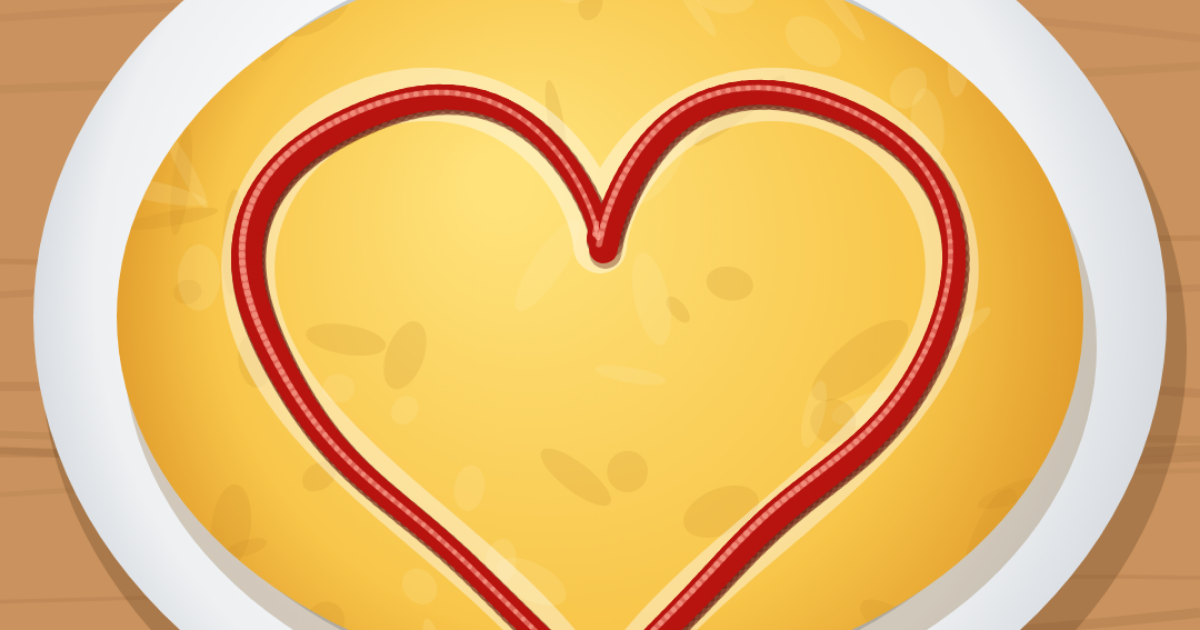
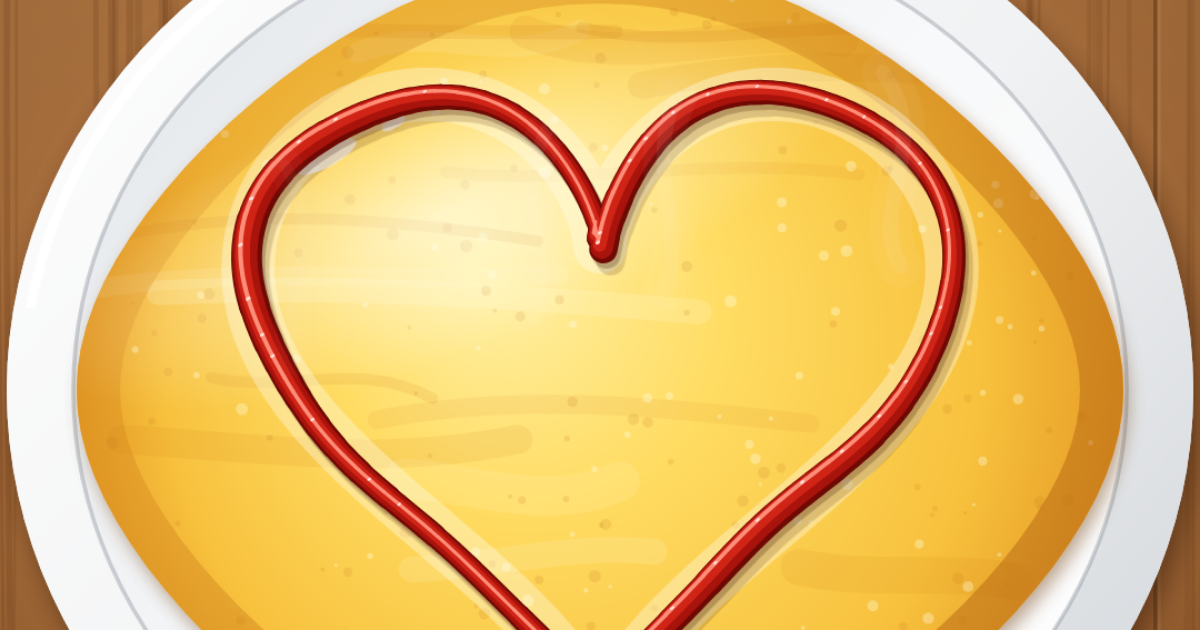
ketchup: 見た目と演出を作り込み（つやのあるケチャップ・卵・お皿・湯気・点数のカウントアップ）
Claude-Session: https://claude.ai/code/session_01E5BBq7waBxSg39EVTyVM3T

diff --git a/ketchup/index.html b/ketchup/index.html
@@ -25,15 +25,17 @@
 *,*::before,*::after{box-sizing:border-box}
 html,body{margin:0;height:100%;background:#2b2a27}
 body{font-family:var(--body);color:var(--ink);overflow:hidden;-webkit-tap-highlight-color:transparent;-webkit-user-select:none;user-select:none;overscroll-behavior:none;-webkit-touch-callout:none}
-#app{position:relative;width:100%;max-width:480px;height:100vh;height:100dvh;margin:0 auto;overflow:hidden;background:#c9925e;touch-action:none}
+#app{position:relative;width:100%;max-width:480px;height:100vh;height:100dvh;margin:0 auto;overflow:hidden;background:#b47640;touch-action:none}
 #cv{position:absolute;inset:0;width:100%;height:100%;display:block;touch-action:none}
 #app.shake{animation:shake .45s}
 @keyframes shake{15%{transform:translate(-9px,3px)}30%{transform:translate(8px,-3px)}45%{transform:translate(-6px,2px)}60%{transform:translate(4px,-1px)}75%{transform:translate(-2px,0)}}
 
 .panel{position:absolute;inset:0;z-index:30;display:flex;flex-direction:column;align-items:center;justify-content:center;padding:24px max(20px,env(safe-area-inset-right,0px)) 24px max(20px,env(safe-area-inset-left,0px));text-align:center}
 .panel[hidden]{display:none}
-#title{background:linear-gradient(#fff4d6,#f7d9a0)}
-#title h1{font-family:var(--display);font-weight:400;font-size:clamp(24px,7.6vw,38px);line-height:1.45;margin:0 0 30px;text-wrap:balance}
+#title{background:linear-gradient(rgba(40,14,0,.05),rgba(40,14,0,.35))}
+#title .tcard{background:rgba(255,250,238,.93);border-radius:24px;padding:26px 18px 16px;width:min(100%,340px);box-shadow:0 14px 40px rgba(40,14,0,.35),0 0 0 1px rgba(255,255,255,.6) inset}
+#title .tcard .btn{width:100%}
+#title h1{font-family:var(--display);font-weight:400;font-size:clamp(24px,7.4vw,34px);line-height:1.42;margin:0 0 18px;color:#3a1608;text-wrap:balance}
 .btn{border:0;border-radius:14px;background:var(--red);color:#fff;font:900 18px var(--body);padding:15px 0;width:min(100%,300px);box-shadow:0 5px 0 var(--red-d);cursor:pointer}
 .btn:active{transform:translateY(3px);box-shadow:0 2px 0 var(--red-d)}
 .btn.ghost{background:#fff;color:var(--ink);box-shadow:0 5px 0 #c9ccd2}
@@ -71,12 +73,12 @@ body{font-family:var(--body);color:var(--ink);overflow:hidden;-webkit-tap-highli
 <div id="app">
   <canvas id="cv" aria-label="木のテーブルの上のお皿とオムライスを真上から見た画面。ハートの点線とうすい帯がある"></canvas>
 
-  <div id="title" class="panel">
+  <div id="title" class="panel"><div class="tcard">
     <h1>オムライスの<br>ケチャップを、<br>はみ出さずに<br>ハートに描け。</h1>
     <p style="margin:0 0 14px;font-size:13px;line-height:1.6">指で1筆、ハートの点線をなぞる。<br>ゆっくりだと太く、速いと細く出る。<br><b>うすい帯からはみ出さずに、<br>点線を全部ケチャップでかくせば100%</b>。</p>
     <button class="btn" id="startBtn" type="button">はじめる</button>
     <p class="fine">登場するものはすべて架空です。音が出ます。<br><a class="me" href="https://x.com/ordwxjhj" target="_blank" rel="noopener">作った人 @ordwxjhj</a></p>
-  </div>
+  </div></div>
 
   <div id="result" class="panel" hidden>
     <div class="sheet">
@@ -184,7 +186,8 @@ const SFX={
   squeezeOff(){if(!SQ||!AC)return;const t=AC.currentTime;SQ.g.gain.setTargetAtTime(.0001,t,.04);const s=SQ.s;setTimeout(()=>{try{s.stop();}catch(e){}},300);SQ=null;},
   pfft(){noise(.12,.12,600,0,'lowpass');},
   happy(){tone(880,.1,'sine',.05,0,1320);tone(1320,.12,'sine',.05,.12,1760);tone(1760,.2,'sine',.04,.26,2200);},
-  sad(){tone(330,.3,'triangle',.05,0,220);}
+  sad(){tone(330,.3,'triangle',.05,0,220);},
+  ok(){tone(660,.09,'sine',.045,0,880);tone(990,.14,'sine',.04,.1,1100);}
 };
 function syncMute(){$('mute').textContent=muted?'音 OFF':'音 ON';$('mute').setAttribute('aria-pressed',String(muted));}
 syncMute();
@@ -193,12 +196,12 @@ $('mute').addEventListener('pointerdown',e=>e.stopPropagation());
 
 /* ---------- canvas ---------- */
 const cv=$('cv'),cx=cv.getContext('2d');
-let W=360,H=640,SC=1,DPR=1,BG=null,BGkey='';
+let W=360,H=640,SC=1,DPR=1,BG=null,BGkey='',Kn=-1;
 function resize(){
   const r=$('app').getBoundingClientRect();DPR=Math.min(3,window.devicePixelRatio||1);
-  SC=r.width/360;W=360;H=r.height/SC;cv.width=Math.round(r.width*DPR);cv.height=Math.round(r.height*DPR);HG=null;
+  SC=r.width/360;W=360;H=r.height/SC;cv.width=Math.round(r.width*DPR);cv.height=Math.round(r.height*DPR);HG=null;Kn=-1;
 }
-addEventListener('resize',resize);try{visualViewport.addEventListener('resize',resize);}catch(e){}
+addEventListener('resize',()=>{resize();});try{visualViewport.addEventListener('resize',()=>{resize();});}catch(e){}
 function rr(x,X,Y,w,h,r){x.beginPath();x.moveTo(X+r,Y);x.arcTo(X+w,Y,X+w,Y+h,r);x.arcTo(X+w,Y+h,X,Y+h,r);x.arcTo(X,Y+h,X,Y,r);x.arcTo(X,Y,X+w,Y,r);x.closePath();}
 function clamp(v,a,b){return Math.max(a,Math.min(b,v));}
 function rnd(i){const s=Math.sin(i*127.1+311.7)*43758.5453;return s-Math.floor(s);}
@@ -214,7 +217,7 @@ let G=null,ROUND=0,PREV=null,PID=null;
 function newGame(){ROUND++;G={phase:'ready',t0:performance.now(),st:{pts:[]},res:null,shown:false,plan:undefined,snap:null,snapped:false,round:ROUND,drips:[]};}
 function tsOf(e){const n=performance.now();const t=e&&e.timeStamp;return (t&&Math.abs(n-t)<1000)?t:n;}
 function ptOf(e){const r=cv.getBoundingClientRect();return {x:(e.clientX-r.left)/SC,y:(e.clientY-r.top)/SC};}
-function down(x,y,t){if(!G||G.phase!=='ready')return;ac();G.phase='draw';G.td=t;addPt(G.st,x,y,t);SFX.squeezeOn();SFX.pfft();}
+function down(x,y,t){if(!G||G.phase!=='ready')return;ac();try{if(!G.plan&&navigator.vibrate)navigator.vibrate(12);}catch(e){}G.phase='draw';G.td=t;addPt(G.st,x,y,t);SFX.squeezeOn();SFX.pfft();}
 function move(x,y,t){if(!G||G.phase!=='draw')return;const p=G.st.pts;if(t<=p[p.length-1].t)return;addPt(G.st,x,y,t);SFX.squeezeSet(p[p.length-1].w);}
 function up(t){if(!G||G.phase!=='draw')return;SFX.squeezeOff();G.phase='done';G.tu=t;
   const r=judge(G.st.pts,heart());r.devS=devOf(r.dev);G.res=r;}
@@ -238,77 +241,152 @@ function step(now){
     if(now-G.td>15000)up(now);
   }
   if(G.phase==='done'){const a=(now-G.tu)/1000;
-    if(!G.played&&a>=.25){G.played=true;if(G.res.devS<1)SFX.happy();else if(G.res.devS>40)SFX.sad();}
+    if(!G.played&&a>=.25){G.played=true;SFX.pfft();}
+    if(!G.played2&&a>=1.3){G.played2=true;if(G.res.devS<1)SFX.happy();else if(G.res.devS>40)SFX.sad();else SFX.ok();}
     if(!G.snapped&&a>=.5){G.snapped=true;takeSnap();}
-    if(a>=1.4&&!G.shown){G.shown=true;showResult();}}
+    if(a>=2.3&&!G.shown){G.shown=true;showResult();}}
 }
 
 /* ---------- drawing ---------- */
+const OY=22;      /* the omelette and the plate sit a little lower than cy, so the heart's tip stays on the egg */
+const EA=157,EB=129,PA=178,PB=161;
+function eggPath(x,ox,oy,a,b){x.beginPath();for(let i=0;i<=96;i++){const t=i/96*Math.PI*2,c=Math.cos(t),s=Math.sin(t);const X=ox+a*c,Y=oy+b*s*(1-.24*c*c);i?x.lineTo(X,Y):x.moveTo(X,Y);}x.closePath();}
 function bg(){
   const key=W+'x'+H+'@'+DPR*SC;if(BG&&BGkey===key)return BG;
   const c=document.createElement('canvas');c.width=Math.round(W*SC*DPR);c.height=Math.round(H*SC*DPR);const x=c.getContext('2d');x.scale(SC*DPR,SC*DPR);
-  const l=L();
-  /* wooden table */
-  x.fillStyle='#c9925e';x.fillRect(0,0,W,H);
-  for(let i=0;i<40;i++){x.strokeStyle=`rgba(120,70,30,${.06+rnd(i)*.08})`;x.lineWidth=1+rnd(i+3)*2;x.beginPath();const y=rnd(i+5)*H;x.moveTo(0,y);x.bezierCurveTo(120,y+rnd(i+7)*20-10,240,y+rnd(i+9)*20-10,W,y+rnd(i+11)*16-8);x.stroke();}
-  /* plate */
-  x.fillStyle='rgba(60,30,10,.22)';x.beginPath();x.ellipse(l.cx+4,l.cy+10,172,142,0,0,7);x.fill();
-  let g=x.createRadialGradient(l.cx-40,l.cy-50,20,l.cx,l.cy,175);g.addColorStop(0,'#ffffff');g.addColorStop(.8,'#eef0f2');g.addColorStop(1,'#d4d8dd');
-  x.fillStyle=g;x.beginPath();x.ellipse(l.cx,l.cy,170,140,0,0,7);x.fill();
-  x.strokeStyle='rgba(150,160,170,.5)';x.lineWidth=1.5;x.beginPath();x.ellipse(l.cx,l.cy,140,112,0,0,7);x.stroke();
-  /* omelette */
-  x.fillStyle='rgba(120,80,20,.25)';x.beginPath();x.ellipse(l.cx+3,l.cy+9,146,112,0,0,7);x.fill();
-  g=x.createRadialGradient(l.cx-30,l.cy-40,10,l.cx,l.cy,150);g.addColorStop(0,'#ffe27a');g.addColorStop(.7,'#f8c64a');g.addColorStop(1,'#e09a2a');
-  x.fillStyle=g;x.beginPath();x.ellipse(l.cx,l.cy,145,110,0,0,7);x.fill();
-  x.save();x.clip();for(let i=0;i<60;i++){x.fillStyle=`rgba(${rnd(i)<.5?255:200},${rnd(i)<.5?240:140},${rnd(i)<.5?180:40},.18)`;x.beginPath();x.ellipse(l.cx+(rnd(i+1)-.5)*280,l.cy+(rnd(i+2)-.5)*210,4+rnd(i+3)*14,2+rnd(i+4)*5,rnd(i+5)*3,0,7);x.fill();}x.restore();
+  const l=L(),ox=l.cx,oy=l.cy+OY;
+  /* warm wooden table, lit from the upper left */
+  let g=x.createLinearGradient(0,0,W*.4,H);g.addColorStop(0,'#c98d55');g.addColorStop(.5,'#b47640');g.addColorStop(1,'#93582c');x.fillStyle=g;x.fillRect(0,0,W,H);
+  const pw=72;for(let k=0;k*pw<W+pw;k++){const x0=k*pw-14;x.fillStyle=`rgba(${rnd(k)<.5?255:70},${rnd(k)<.5?220:30},${rnd(k)<.5?170:0},${.03+rnd(k+2)*.05})`;x.fillRect(x0,0,pw,H);
+    x.fillStyle='rgba(60,28,8,.35)';x.fillRect(x0,0,1.2,H);x.fillStyle='rgba(255,220,170,.12)';x.fillRect(x0+1.2,0,1,H);
+    for(let i=0;i<14;i++){const s=k*31+i;x.strokeStyle=`rgba(90,45,15,${.07+rnd(s)*.12})`;x.lineWidth=.6+rnd(s+3)*1.6;x.beginPath();const xx=x0+6+rnd(s+5)*(pw-12);x.moveTo(xx,0);
+      x.bezierCurveTo(xx+rnd(s+7)*10-5,H*.33,xx+rnd(s+9)*10-5,H*.66,xx+rnd(s+11)*8-4,H);x.stroke();}
+    if(rnd(k+40)<.6){const kx=x0+10+rnd(k+41)*(pw-20),ky=rnd(k+42)*H;x.strokeStyle='rgba(80,38,10,.22)';x.lineWidth=1;for(let r=2;r<12;r+=2.5){x.beginPath();x.ellipse(kx,ky,r*.45,r*1.6,0,0,7);x.stroke();}}}
+  /* linen napkin and a spoon below the plate, when there is room */
+  if(H-(oy+PB)>70){const ny=oy+PB+16;x.save();x.translate(W-60,ny+50);x.rotate(-.08);
+    x.fillStyle='rgba(40,20,5,.25)';rr(x,-118+4,-40+6,240,140,10);x.fill();
+    g=x.createLinearGradient(-118,-40,120,100);g.addColorStop(0,'#f7f1e6');g.addColorStop(1,'#e3d8c4');x.fillStyle=g;rr(x,-118,-40,240,140,10);x.fill();
+    x.strokeStyle='rgba(170,140,100,.35)';x.lineWidth=1;x.setLineDash([3,3]);rr(x,-110,-32,224,124,6);x.stroke();x.setLineDash([]);
+    x.fillStyle='rgba(30,20,10,.25)';x.beginPath();x.ellipse(-40+3,22+5,16,11,0,0,7);x.fill();x.fillRect(-28+2,18+4,130,6);
+    g=x.createLinearGradient(0,10,0,34);g.addColorStop(0,'#fbfcfd');g.addColorStop(.5,'#b9c0c8');g.addColorStop(1,'#eef1f4');
+    x.fillStyle=g;x.beginPath();x.ellipse(-40,22,16,11,0,0,7);x.fill();rr(x,-28,18,130,6,3);x.fill();
+    x.fillStyle='rgba(255,255,255,.8)';x.beginPath();x.ellipse(-45,18,6,3,-.3,0,7);x.fill();x.restore();}
+  /* vignette */
+  g=x.createRadialGradient(ox,oy,120,ox,oy,Math.max(W,H)*.8);g.addColorStop(0,'rgba(0,0,0,0)');g.addColorStop(1,'rgba(30,12,0,.42)');x.fillStyle=g;x.fillRect(0,0,W,H);
+  /* the plate: soft shadow, rim, well */
+  x.save();x.shadowColor='rgba(40,18,4,.45)';x.shadowBlur=22;x.shadowOffsetX=6;x.shadowOffsetY=12;x.fillStyle='#e9ecef';x.beginPath();x.ellipse(ox,oy,PA,PB,0,0,7);x.fill();x.restore();
+  g=x.createLinearGradient(ox-PA,oy-PB,ox+PA,oy+PB);g.addColorStop(0,'#ffffff');g.addColorStop(.55,'#f1f2f3');g.addColorStop(1,'#cfd3d8');x.fillStyle=g;x.beginPath();x.ellipse(ox,oy,PA,PB,0,0,7);x.fill();
+  g=x.createLinearGradient(ox-PA,oy-PB,ox+PA,oy+PB);g.addColorStop(0,'#dfe3e7');g.addColorStop(.5,'#f8f9fa');g.addColorStop(1,'#ffffff');x.fillStyle=g;x.beginPath();x.ellipse(ox,oy,PA-20,PB-19,0,0,7);x.fill();
+  x.strokeStyle='rgba(120,130,140,.35)';x.lineWidth=1.2;x.beginPath();x.ellipse(ox,oy,PA-20,PB-19,0,0,7);x.stroke();
+  x.strokeStyle='rgba(255,255,255,.9)';x.lineWidth=3;x.beginPath();x.ellipse(ox,oy,PA-5,PB-5,0,Math.PI*1.05,Math.PI*1.55);x.stroke();
+  /* a sprig of parsley on the rim */
+  const px0=ox-PA+52,py0=oy+PB-50;for(let i=0;i<9;i++){const an=i/9*7,rr0=4+rnd(i+80)*5;x.fillStyle=i%2?'#3f8a2e':'#5aa83c';x.beginPath();x.ellipse(px0+Math.cos(an)*rr0,py0+Math.sin(an)*rr0*.8,6,4.5,an,0,7);x.fill();}
+  x.strokeStyle='#4a8a2a';x.lineWidth=1.4;x.beginPath();x.moveTo(px0+3,py0+3);x.quadraticCurveTo(px0+12,py0+14,px0+22,py0+16);x.stroke();
+  x.fillStyle='rgba(255,255,255,.35)';x.beginPath();x.ellipse(px0-3,py0-4,3,1.6,-.5,0,7);x.fill();
+  /* the omelette: shadow, body, folds, browned edge, gloss */
+  x.save();x.shadowColor='rgba(110,60,10,.45)';x.shadowBlur=16;x.shadowOffsetX=4;x.shadowOffsetY=8;x.fillStyle='#e6a531';eggPath(x,ox,oy,EA,EB);x.fill();x.restore();
+  g=x.createRadialGradient(ox-34,oy-38,8,ox,oy,EA*1.02);g.addColorStop(0,'#fff0a3');g.addColorStop(.35,'#ffdc62');g.addColorStop(.75,'#f8c23e');g.addColorStop(1,'#e59a24');
+  x.fillStyle=g;eggPath(x,ox,oy,EA,EB);x.fill();
+  x.save();eggPath(x,ox,oy,EA,EB);x.clip();
+  /* folds of the thin egg, running along its length */
+  for(let i=0;i<16;i++){const yy=oy+(rnd(i+20)-.5)*EB*1.8,len=60+rnd(i+21)*120,xx=ox+(rnd(i+22)-.5)*EA*1.2,d=rnd(i+23)<.5;
+    x.strokeStyle=d?`rgba(205,120,20,${.08+rnd(i+24)*.08})`:`rgba(255,250,210,${.14+rnd(i+24)*.12})`;x.lineWidth=3+rnd(i+25)*9;x.lineCap='round';
+    x.beginPath();x.moveTo(xx-len/2,yy+rnd(i+26)*10-5);x.bezierCurveTo(xx-len/6,yy-8+rnd(i+27)*16,xx+len/6,yy-8+rnd(i+28)*16,xx+len/2,yy+rnd(i+29)*10-5);x.stroke();}
+  /* tiny bubbles and specks */
+  for(let i=0;i<220;i++){const a=rnd(i+300)*7,r=Math.sqrt(rnd(i+301));const X=ox+Math.cos(a)*r*EA*.95,Y=oy+Math.sin(a)*r*EB*.95;
+    x.fillStyle=rnd(i+302)<.5?'rgba(255,255,225,.35)':'rgba(200,120,30,.16)';x.beginPath();x.arc(X,Y,.5+rnd(i+303)*1.4,0,7);x.fill();}
+  /* browned edge */
+  x.lineWidth=26;g=x.createLinearGradient(ox-EA,oy-EB,ox+EA,oy+EB);g.addColorStop(0,'rgba(220,140,30,.25)');g.addColorStop(1,'rgba(170,90,15,.55)');x.strokeStyle=g;eggPath(x,ox,oy,EA,EB);x.stroke();
+  /* soft gloss from the light */
+  x.save();x.translate(ox-48,oy-52);x.rotate(-.35);g=x.createRadialGradient(0,0,0,0,0,70);g.addColorStop(0,'rgba(255,255,245,.55)');g.addColorStop(1,'rgba(255,255,245,0)');x.fillStyle=g;x.scale(1.8,.6);x.beginPath();x.arc(0,0,70,0,7);x.fill();x.restore();
+  x.fillStyle='rgba(255,255,255,.75)';x.beginPath();x.ellipse(ox-82,oy-70,10,3,-.5,0,7);x.fill();x.beginPath();x.ellipse(ox-62,oy-80,4,1.6,-.5,0,7);x.fill();
+  x.restore();
   /* the pale heart band and the dotted line */
   const hp=heart().pts;
-  x.strokeStyle='rgba(255,255,255,.42)';x.lineWidth=BAND*2;x.lineJoin='round';x.lineCap='round';x.beginPath();hp.forEach((p,i)=>i?x.lineTo(p.x,p.y):x.moveTo(p.x,p.y));x.closePath();x.stroke();
-  x.fillStyle='rgba(150,40,20,.55)';hp.forEach((p,i)=>{if(i%4===0){x.beginPath();x.arc(p.x,p.y,1.3,0,7);x.fill();}});
+  x.strokeStyle='rgba(255,255,240,.36)';x.lineWidth=BAND*2;x.lineJoin='round';x.lineCap='round';x.beginPath();hp.forEach((p,i)=>i?x.lineTo(p.x,p.y):x.moveTo(p.x,p.y));x.closePath();x.stroke();
+  x.fillStyle='rgba(150,40,20,.6)';hp.forEach((p,i)=>{if(i%4===0){x.beginPath();x.arc(p.x,p.y,1.3,0,7);x.fill();}});
   BG=c;BGkey=key;return c;
 }
-function ketchup(x,pts,upto){
-  const n=upto===undefined?pts.length:upto;
-  x.lineCap='round';x.lineJoin='round';
-  for(let pass=0;pass<3;pass++){
-    for(let j=1;j<n;j++){const a=pts[j-1],b=pts[j];const w=Math.min(a.w,b.w)?(a.w+b.w)/2:0;if(!w)continue;
-      if(pass===0){x.strokeStyle='rgba(90,10,5,.35)';x.lineWidth=w+1.2;x.beginPath();x.moveTo(a.x+.6,a.y+1);x.lineTo(b.x+.6,b.y+1);x.stroke();}
-      else if(pass===1){x.strokeStyle='#b8140f';x.lineWidth=w;x.beginPath();x.moveTo(a.x,a.y);x.lineTo(b.x,b.y);x.stroke();}
-      else{x.strokeStyle='rgba(255,170,150,.55)';x.lineWidth=Math.max(.8,w*.22);x.beginPath();x.moveTo(a.x-w*.15,a.y-w*.18);x.lineTo(b.x-w*.15,b.y-w*.18);x.stroke();}}
-  }
-  if(n===1&&pts[0].w){x.fillStyle='#b8140f';x.beginPath();x.arc(pts[0].x,pts[0].y,pts[0].w/2,0,7);x.fill();}
+/* ketchup as a glossy tube: the whole stroke is redrawn pass by pass (edge, body, core, shine) so the shine never breaks at joints */
+let KC=null,KS=null,Kref=null;
+function kLayers(){const w=cv.width,h=cv.height;if(!KC||KC.width!==w||KC.height!==h){KC=document.createElement('canvas');KS=document.createElement('canvas');KC.width=KS.width=w;KC.height=KS.height=h;Kn=-1;}}
+function ketchupLayer(pts){
+  kLayers();if(pts===Kref&&pts.length===Kn)return;Kref=pts;Kn=pts.length;
+  const x=KC.getContext('2d');x.setTransform(1,0,0,1,0,0);x.clearRect(0,0,KC.width,KC.height);x.setTransform(DPR*SC,0,0,DPR*SC,0,0);x.lineCap='round';x.lineJoin='round';
+  const B=new Map();for(let j=1;j<pts.length;j++){const a=pts[j-1],b=pts[j];const w=Math.min(a.w,b.w)?(a.w+b.w)/2:0;if(!w)continue;const q=Math.round(w*4)/4;let l=B.get(q);if(!l)B.set(q,l=[]);l.push(a,b);}
+  const P=[['#6e0904',1,0,0],['#a8130c',.8,-.05,-.06],['#cf2416',.48,-.13,-.15],['#ff8e78',.15,-.2,-.24]];
+  for(const [col,k,dx,dy] of P){x.strokeStyle=col;for(const [w,l] of B){x.lineWidth=Math.max(.6,w*k);const ox=w*dx,oy=w*dy;x.beginPath();for(let i=0;i<l.length;i+=2){x.moveTo(l[i].x+ox,l[i].y+oy);x.lineTo(l[i+1].x+ox,l[i+1].y+oy);}x.stroke();}}
+  /* a few bright glints along the thick parts */
+  x.fillStyle='rgba(255,240,235,.85)';for(const [w,l] of B){if(w<7)continue;for(let i=0;i<l.length;i+=14){const p=l[i];x.beginPath();x.ellipse(p.x-w*.2,p.y-w*.24,w*.09,w*.05,-.6,0,7);x.fill();}}
+  if(pts.length===1&&pts[0].w){const p=pts[0],w=p.w;[['#6e0904',.5,0],['#a8130c',.4,-.05],['#cf2416',.24,-.14],['#ff8e78',.08,-.22]].forEach(([c,r,d])=>{x.fillStyle=c;x.beginPath();x.arc(p.x+w*d,p.y+w*d,w*r,0,7);x.fill();});}
+  const s=KS.getContext('2d');s.globalCompositeOperation='source-over';s.clearRect(0,0,KS.width,KS.height);s.drawImage(KC,0,0);s.globalCompositeOperation='source-in';s.fillStyle='#3a1003';s.fillRect(0,0,KS.width,KS.height);s.globalCompositeOperation='source-over';
 }
-function bottle(x,p,tilt){
-  x.save();x.translate(p.x,p.y);x.rotate(tilt);
-  x.fillStyle='#f4f4f2';x.beginPath();x.moveTo(-3,-2);x.lineTo(3,-2);x.lineTo(5,-16);x.lineTo(-5,-16);x.closePath();x.fill();
-  let g=x.createLinearGradient(-22,0,22,0);g.addColorStop(0,'#9e0f0b');g.addColorStop(.35,'#e0281f');g.addColorStop(.6,'#c41a14');g.addColorStop(1,'#7e0a07');
-  x.fillStyle=g;rr(x,-20,-90,40,74,14);x.fill();
-  x.fillStyle='#f4f4f2';rr(x,-12,-22,24,8,3);x.fill();
-  x.fillStyle='rgba(255,255,255,.35)';rr(x,-14,-84,6,56,3);x.fill();
-  x.fillStyle='#fff8e8';rr(x,-14,-66,28,22,4);x.fill();x.fillStyle='#c41a14';x.font='900 9px '+BODYF();x.textAlign='center';x.textBaseline='middle';x.fillText('トマト',0,-55);
+function ketchup(x,pts){
+  if(!pts||!pts.length)return;ketchupLayer(pts);
+  x.save();x.globalAlpha=.16;x.drawImage(KS,2.2,3.6,W,H);x.globalAlpha=.24;x.drawImage(KS,.9,1.6,W,H);x.restore();
+  x.drawImage(KC,0,0,W,H);
+}
+function bottle(x,p,tilt,sq){
+  x.save();x.translate(p.x,p.y);
+  /* its shadow on the omelette */
+  x.save();x.shadowColor='rgba(90,40,0,.28)';x.shadowBlur=12*SC*DPR;x.shadowOffsetX=1000*SC*DPR;x.shadowOffsetY=0;x.translate(16-1000,20);x.rotate(tilt);x.fillStyle='#000';rr(x,-20,-100,40,80,16);x.fill();x.restore();
+  x.rotate(tilt);x.scale(1+sq*.07,1-sq*.03);
+  x.fillStyle='#e9e7e2';x.beginPath();x.moveTo(-2.5,-1);x.lineTo(2.5,-1);x.lineTo(5,-15);x.lineTo(-5,-15);x.closePath();x.fill();
+  x.fillStyle='#b8140f';x.beginPath();x.arc(0,-1,2.2,0,7);x.fill();
+  let g=x.createLinearGradient(-14,0,14,0);g.addColorStop(0,'#cfccc6');g.addColorStop(.4,'#ffffff');g.addColorStop(1,'#bdb9b2');x.fillStyle=g;rr(x,-14,-26,28,12,4);x.fill();
+  g=x.createLinearGradient(-22,0,22,0);g.addColorStop(0,'#7a0905');g.addColorStop(.28,'#e3311f');g.addColorStop(.42,'#f2533e');g.addColorStop(.65,'#c21a12');g.addColorStop(1,'#6a0703');
+  x.fillStyle=g;x.beginPath();x.moveTo(-14,-24);x.bezierCurveTo(-24,-30,-22,-40,-22,-50);x.lineTo(-22,-92);x.quadraticCurveTo(-22,-104,-10,-104);x.lineTo(10,-104);x.quadraticCurveTo(22,-104,22,-92);x.lineTo(22,-50);x.bezierCurveTo(22,-40,24,-30,14,-24);x.closePath();x.fill();
+  x.fillStyle='rgba(255,255,255,.45)';rr(x,-15,-98,5,66,2.5);x.fill();x.fillStyle='rgba(255,255,255,.25)';rr(x,10,-94,3,50,1.5);x.fill();
+  x.fillStyle='#fff6e2';rr(x,-16,-80,32,26,5);x.fill();x.fillStyle='#3f8a2e';x.beginPath();x.ellipse(0,-74,5,2.6,0,0,7);x.fill();
+  x.fillStyle='#c41a14';x.font='900 8.5px '+BODYF();x.textAlign='center';x.textBaseline='middle';x.fillText('トマト',0,-63);
   x.restore();
 }
+/* steam rising from the hot omelette */
+function steam(x,now){const l=L(),ox=l.cx,oy=l.cy+OY;x.save();x.lineCap='round';
+  for(let i=0;i<4;i++){const per=4200+i*700,ph=((now+i*1300)%per)/per;const bx=ox-90+i*60+Math.sin(i*2.1)*12,by=oy-20-ph*120;const al=Math.sin(ph*Math.PI)*.075;
+    for(let k=0;k<2;k++){x.strokeStyle=`rgba(255,255,255,${al*(k?1:.6)})`;x.lineWidth=k?3+ph*4:9+ph*10;x.beginPath();const s=Math.sin(now/900+i*1.7);
+      x.moveTo(bx,by+30);x.bezierCurveTo(bx+12*s,by+12,bx-12*s,by-6,bx+6*s,by-28);x.stroke();}}
+  x.restore();}
+let DEMO=null,DEMOkey='';
+function demo(){const k=W+'x'+H;if(DEMO&&DEMOkey===k)return DEMO;const raw=genStroke(heart(),{a:.15,v:330,b:.1,over:10,seed:3},0);const st={pts:[]};for(const q of raw)addPt(st,q.x,q.y,q.t);DEMO=st.pts;DEMOkey=k;return DEMO;}
 function scene(x,now){
   x.drawImage(bg(),0,0,W,H);
-  if(!G)return;
+  if(!G){ketchup(x,demo());steam(x,now);return;}
   ketchup(x,G.st.pts);
-  if(G.phase==='draw'){const p=G.st.pts[G.st.pts.length-1];bottle(x,p,-.18);}
+  steam(x,now);
+  if(G.phase==='draw'){const p=G.st.pts[G.st.pts.length-1];bottle(x,p,-.2,clamp((p.w-4)/22,0,1));}
 }
 function pill(label,lx,ly){cx.save();cx.font='900 14px '+BODYF();cx.textAlign='center';cx.textBaseline='middle';
   const w=cx.measureText(label).width+22;cx.fillStyle='rgba(60,30,10,.82)';rr(cx,lx-w/2,ly-15,w,30,15);cx.fill();cx.fillStyle='#fff';cx.fillText(label,lx,ly+1);cx.restore();}
+const DISP=getComputedStyle(document.documentElement).getPropertyValue('--display');
+/* after the finger lifts: the score counts up over the plate, sparkles for a shop-quality heart */
+function overlay(now){
+  if(!G||G.phase!=='done'||!G.res)return;const a=(now-G.tu)/1000;if(a<.55)return;
+  const l=L(),f=clamp((a-.55)/.75,0,1),e=1-Math.pow(1-f,3),fin=Math.max(0,Math.round((100-G.res.devS)*10)/10),v=(fin*e).toFixed(1);
+  const pop=f<1?1:1+.12*Math.max(0,1-(a-1.3)/.25)*Math.sin(Math.min(1,(a-1.3)/.25)*Math.PI);
+  const y=Math.max(64,l.cy+OY-PB-52);cx.save();cx.globalAlpha=clamp((a-.55)/.2,0,1);
+  cx.fillStyle='rgba(40,14,4,.55)';rr(cx,180-118,y-48,236,92,22);cx.fill();
+  cx.textAlign='center';cx.textBaseline='middle';cx.fillStyle='#ffe9b8';cx.font='900 14px '+BODYF();cx.fillText('ハート度',180,y-28);
+  cx.translate(180,y+12);cx.scale(pop,pop);cx.font='400 44px '+DISP;cx.lineWidth=6;cx.strokeStyle='#7a0905';cx.lineJoin='round';cx.strokeText(v+'%',0,0);cx.fillStyle=fin>=99?'#ffd23f':'#fff';cx.fillText(v+'%',0,0);
+  cx.restore();
+  if(f>=1&&G.res.devS<1){const hp=heart().pts,t=a-1.3;cx.save();for(let i=0;i<26;i++){const p=hp[(i*14)%hp.length],ph=(t*1.4+rnd(i)*1)%1,al=Math.sin(ph*Math.PI),s=2+rnd(i+9)*5;
+    cx.globalAlpha=al;cx.fillStyle=i%3?'#fff8d0':'#ffd23f';cx.translate(p.x+(rnd(i+2)-.5)*24,p.y+(rnd(i+4)-.5)*24-ph*10);cx.rotate(ph*2);cx.beginPath();for(let k=0;k<8;k++){const r=k%2?s*.32:s;cx.lineTo(Math.cos(k*Math.PI/4)*r,Math.sin(k*Math.PI/4)*r);}cx.closePath();cx.fill();cx.setTransform(DPR*SC,0,0,DPR*SC,0,0);}cx.restore();}
+}
+let NOOV=false;
 function render(now){
   cx.setTransform(DPR*SC,0,0,DPR*SC,0,0);
   scene(cx,now);
   if(G&&G.round===1&&G.plan===undefined&&G.phase==='ready'){const y=Math.max(44,L().cy-180);pill('指で1筆、点線の上をなぞる',180,y);pill('うすい帯からはみ出さずに点線を全部かくす',180,y+36);}
-  if(G&&G.phase==='ready'){const p=heart().pts[0];cx.fillStyle='rgba(184,20,15,.85)';cx.font='900 11px '+BODYF();cx.textAlign='center';cx.fillText('どこから描いてもOK',p.x,p.y-20);}
+  if(G&&G.phase==='ready'){const p=heart().pts[0];cx.fillStyle='rgba(150,20,10,.9)';cx.font='900 11px '+BODYF();cx.textAlign='center';cx.fillText('どこから描いてもOK',p.x,p.y-20);}
+  if(!NOOV)overlay(now);
 }
 function loop(now){requestAnimationFrame(loop);if(G)step(now);render(now);}
 requestAnimationFrame(loop);
 
 /* ---------- result ---------- */
-function cropBox(){const l=L();return {y0:Math.max(0,l.cy-150),y1:Math.min(H,l.cy+150)};}
+function cropBox(){const l=L();return {y0:Math.max(0,l.cy+OY-172),y1:Math.min(H,l.cy+OY+172)};}
 function takeSnap(){
-  try{render(performance.now());}catch(e){}
+  NOOV=true;try{render(performance.now());}catch(e){}NOOV=false;
   try{const {y0,y1}=cropBox(),r=SC*DPR;const c=document.createElement('canvas');c.width=cv.width;c.height=Math.round((y1-y0)*r);
     c.getContext('2d').drawImage(cv,0,Math.round(y0*r),cv.width,c.height,0,0,c.width,c.height);G.snap=c;}catch(e){}
 }
